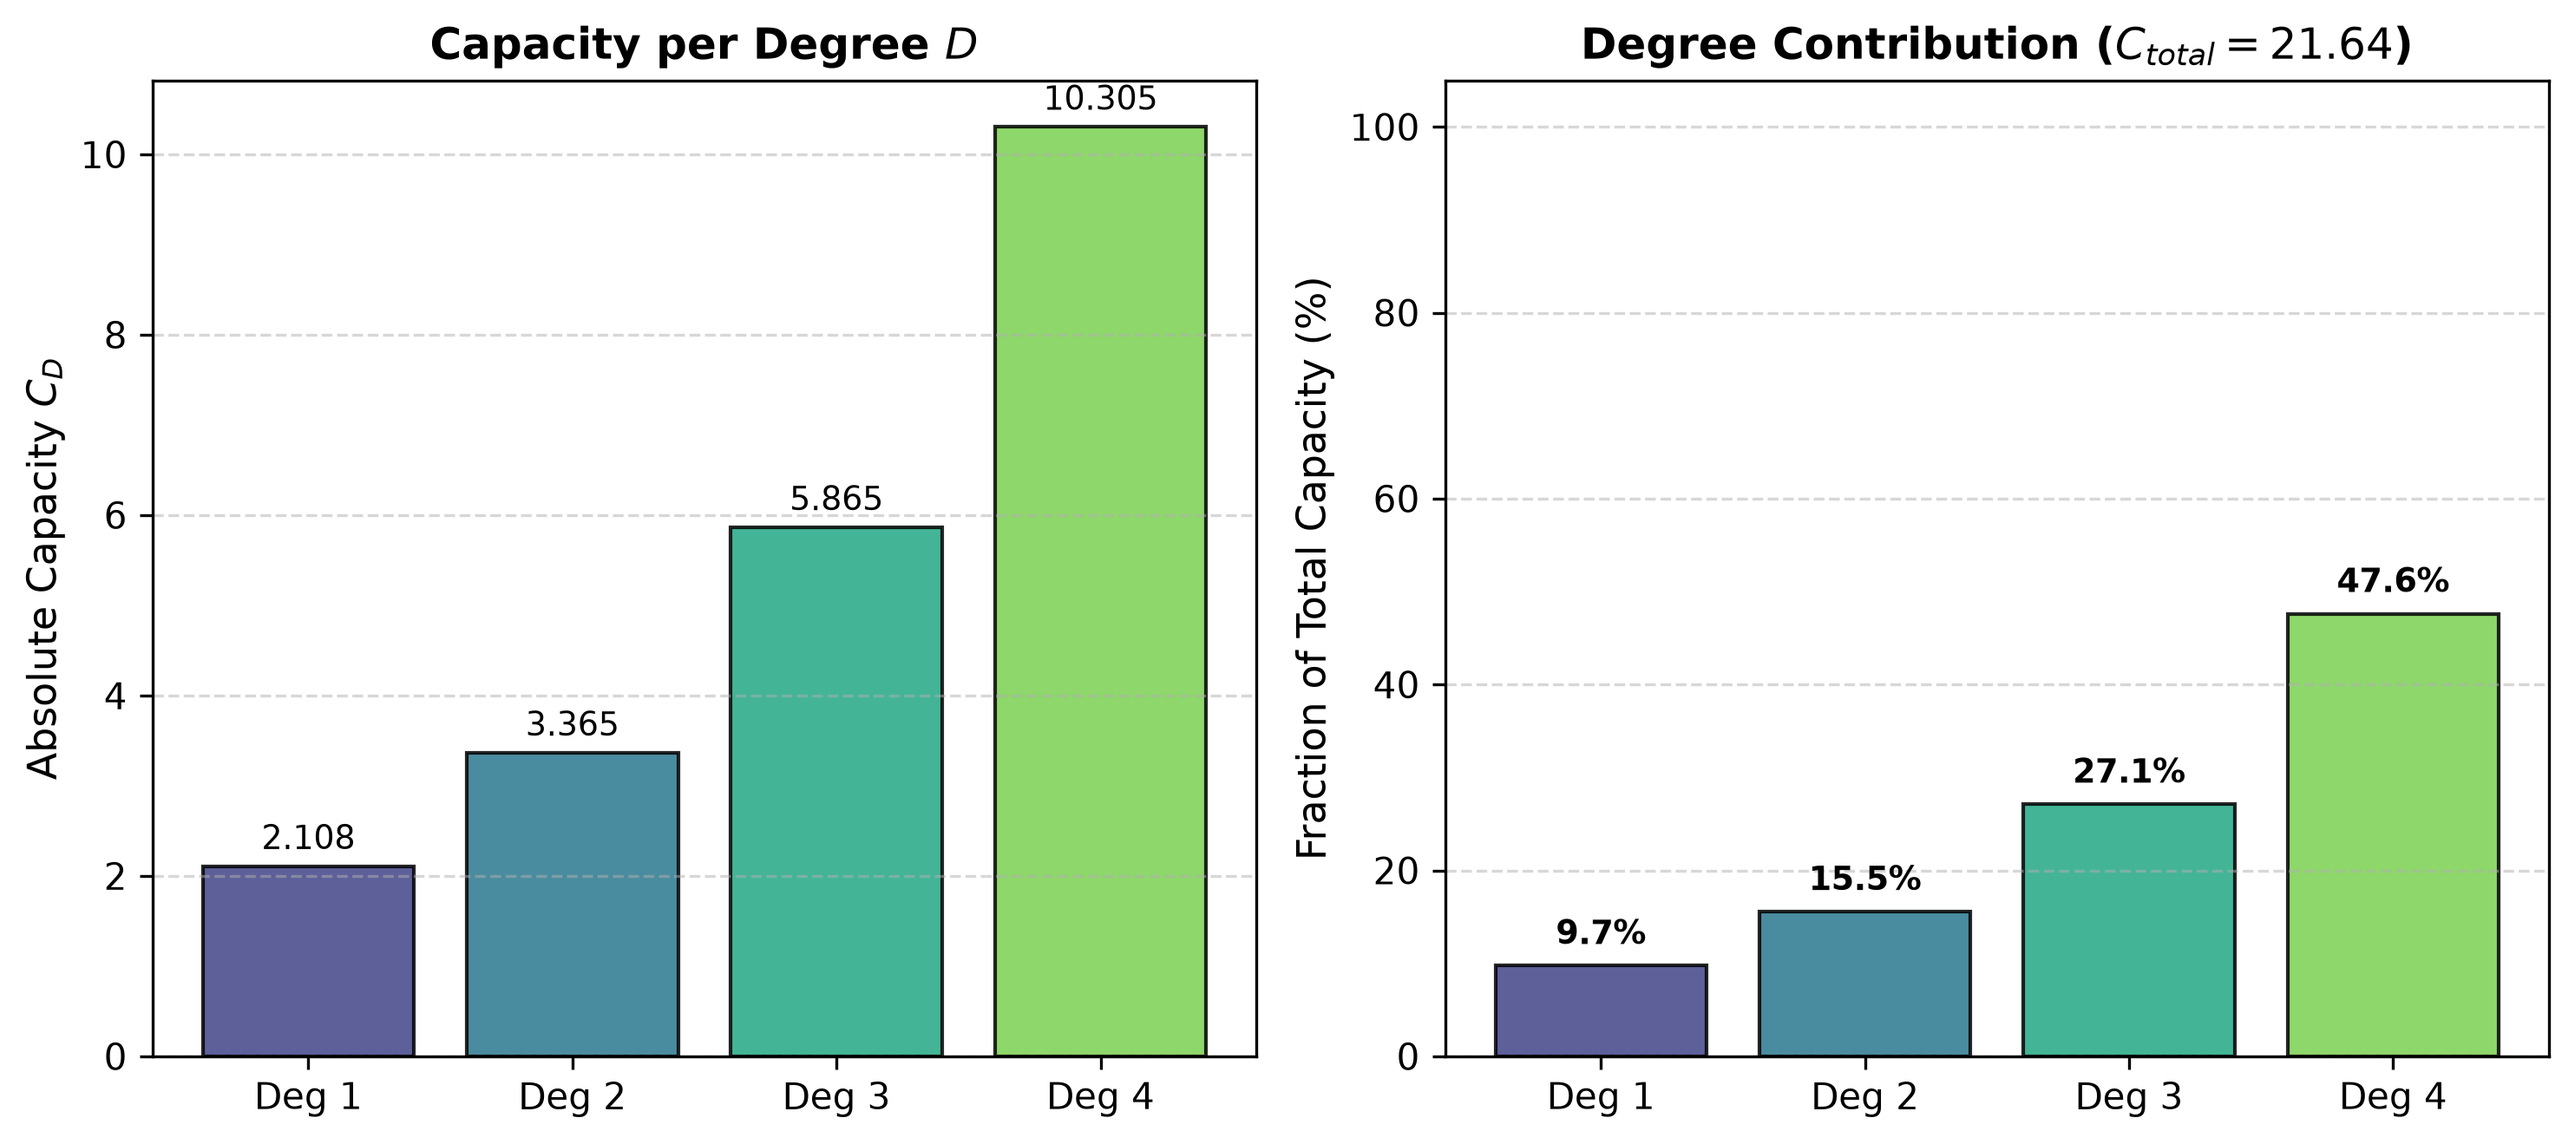
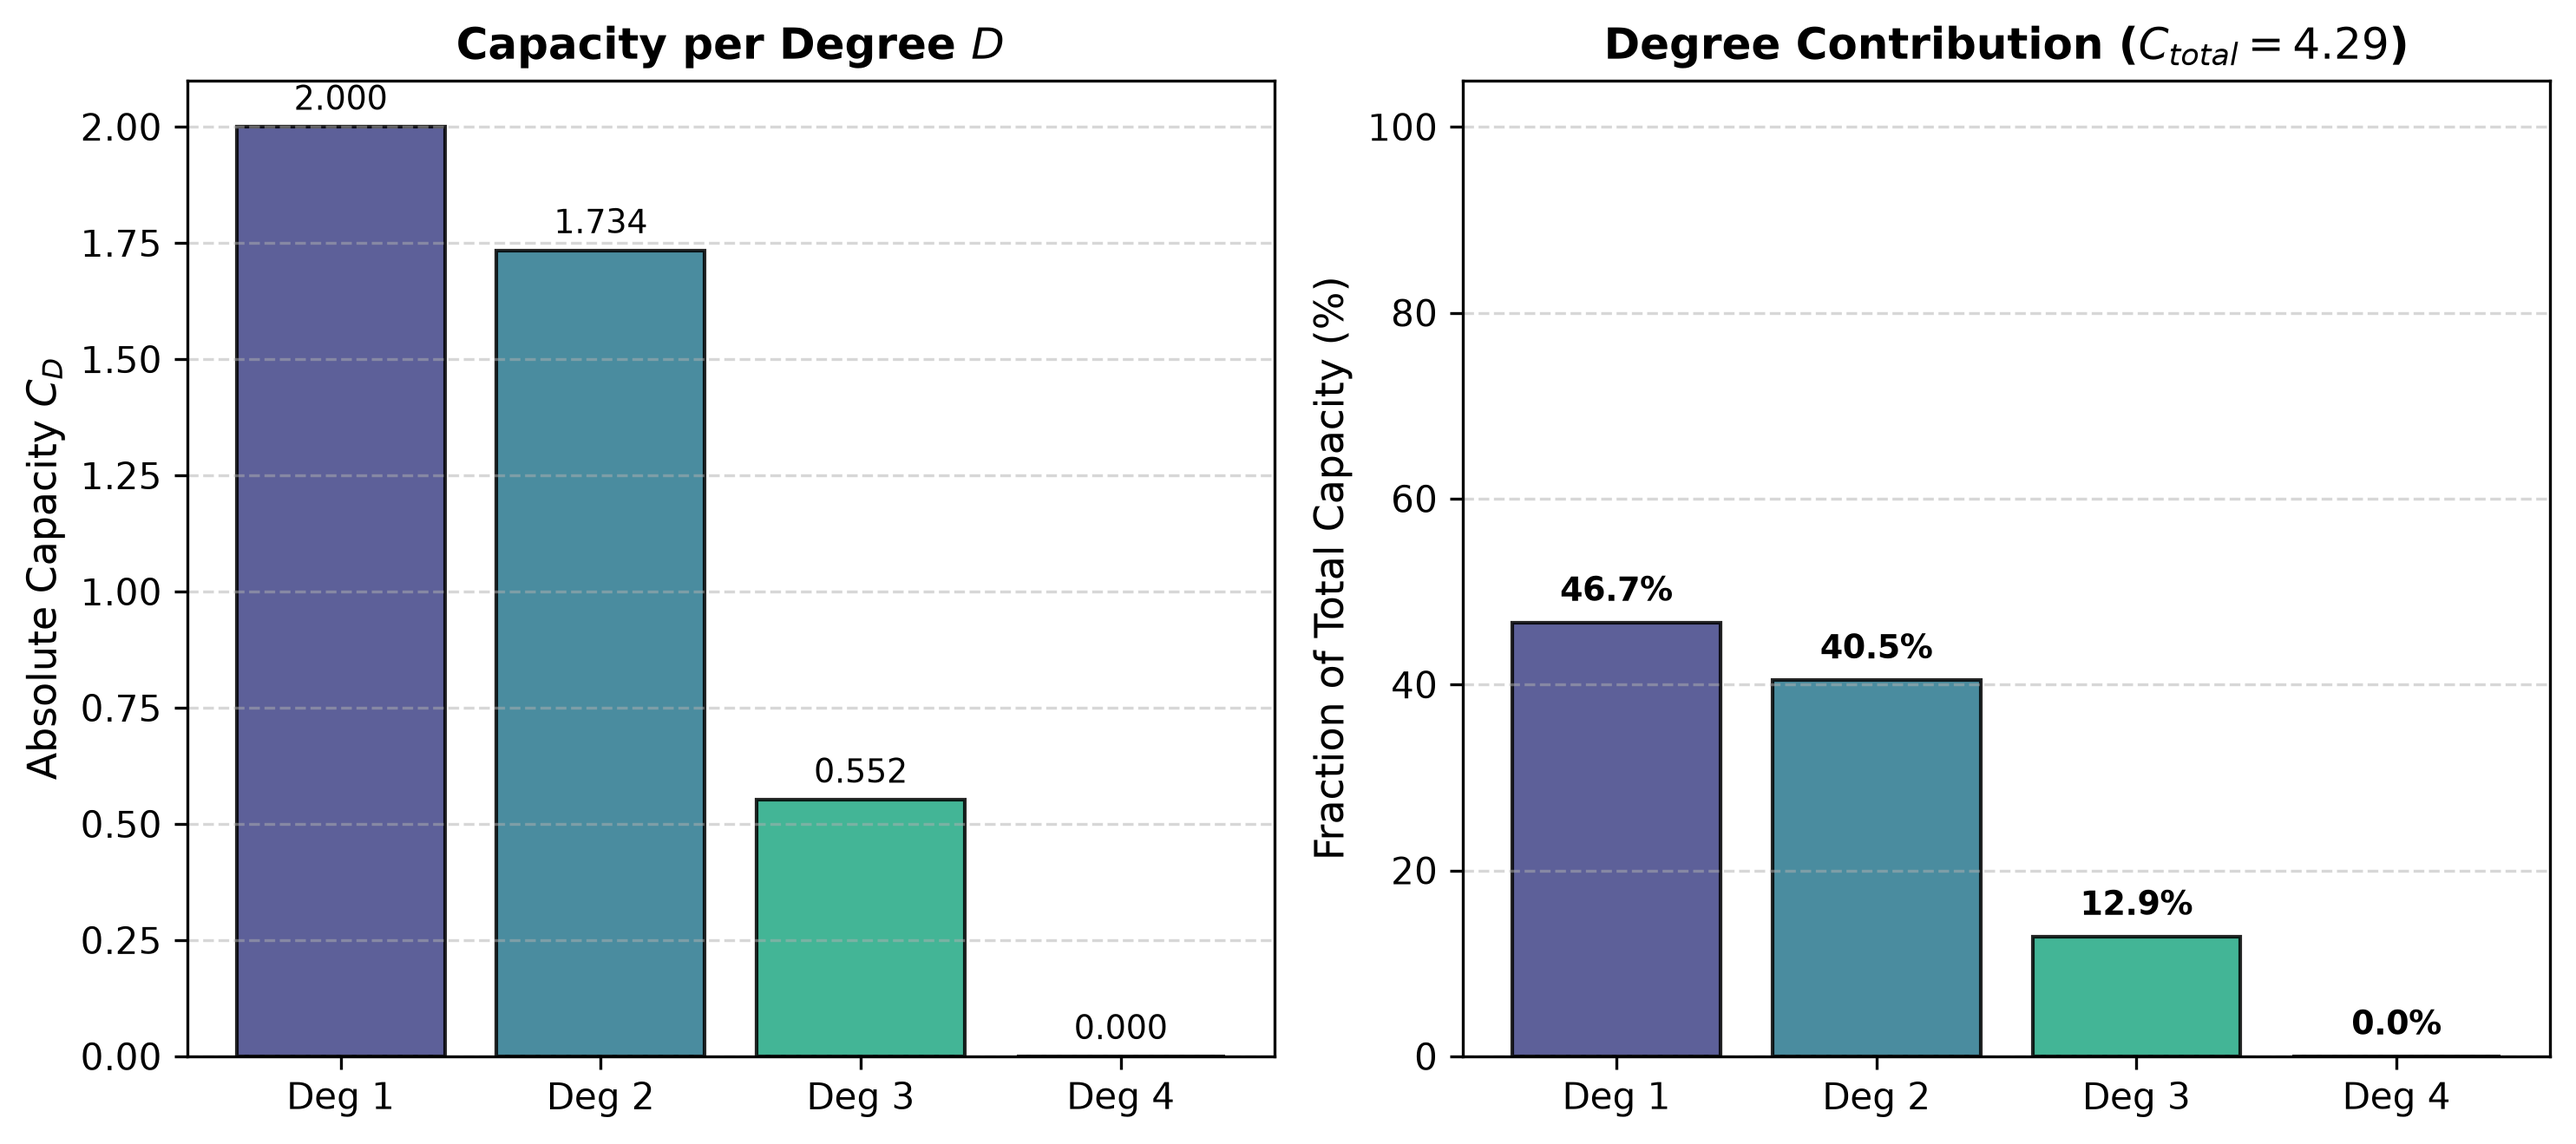
minor updates

diff --git a/classes/RC.py b/classes/RC.py
@@ -295,9 +295,73 @@ class RC(ABC):
 
         return float(np.sum(capacity_array)), capacity_array
 
+    def evaluate_IPC_joint(self, data_size: int = 5000, d_max: int = 4,
+                            tau_max: int = 10, threshold: float = 1e-3) -> tuple[float, np.ndarray]:
+        from itertools import combinations
 
+        def find_permutations(n, target, current_path=None):
+            """Ordered compositions of target into n positive integers."""
+            if current_path is None:
+                current_path = []
+            if len(current_path) == n - 1:
+                if target >= 1:
+                    yield current_path + [target]
+                return
+            for i in range(1, target - (n - 1 - len(current_path)) + 1):
+                yield from find_permutations(n, target - i, current_path + [i])
 
-        
+        rng = np.random.default_rng()
+        u = rng.uniform(-1.0, 1.0, size=data_size)
+
+        raw = self.simulate_data(u, is_train=False, save_dynamics=False)
+        states = np.asarray(raw)[:, self.washout:]  # (K, T_eff)
+        X = states.T                                # (T_eff, K)
+        T_eff, K = X.shape
+
+        # Adaptive noise floor threshold — scales with K/T_eff
+        noise_floor = K / T_eff
+        effective_threshold = max(threshold, 3.0 * noise_floor)
+
+        max_delay = min(tau_max, self.washout)
+        targets, degree_groups = [], []
+
+        for D in range(1, d_max + 1):
+            print(f"Calculating Capacity for degree {D}")
+            for n_poly in range(1, D + 1):
+                # Ordered degree assignments summing to D
+                deg_permutations = list(find_permutations(n_poly, D))
+                # DISTINCT time lags only — no same-lag products
+                delays_list = list(combinations(range(max_delay + 1), n_poly))
+
+                for perm in deg_permutations:
+                    for delay_tuple in delays_list:
+                        z = np.ones(T_eff)
+                        for d, tau in zip(perm, delay_tuple):
+                            u_lag = u[self.washout - tau : data_size - tau]
+                            z *= eval_legendre_norm(d, u_lag)
+                        targets.append(z)
+                        degree_groups.append(D)
+
+        Z = np.column_stack(targets)  # (T_eff, N)
+
+        # One joint regression — correctly bounds total IPC ≤ K
+        gamma = 1e-5
+        W_opt = np.linalg.solve(X.T @ X + gamma * np.eye(K), X.T @ Z)
+        Z_hat = X @ W_opt  # (T_eff, N)
+
+        capacity_array = np.zeros(d_max)
+        for i, D in enumerate(degree_groups):
+            var_z = np.var(targets[i])
+            if var_z == 0:
+                continue
+            mse = np.mean((Z_hat[:, i] - targets[i]) ** 2)
+            c_i = max(0.0, 1.0 - mse / var_z)
+            if c_i >= effective_threshold:
+                capacity_array[D - 1] += c_i
+
+        return float(np.sum(capacity_array)), capacity_array
+
+    
     def evaluate_IPC(self, data_size: int = 1000, d_max: int = 3, tau_max: int = 20, threshold: float = 1e-3, type: IPC_type = IPC_type.UNIFORM) -> tuple[float, dict]:
         """
         Calculates the Information Processing Capacity (IPC) of the reservoir.

diff --git a/test_scripts/test_JJ.py b/test_scripts/test_JJ.py
@@ -11,7 +11,7 @@ from classes.RC import generate_mackey_glass
 from pathlib import Path
 from collections import defaultdict
 
-def plot_ipc_by_degree(capacities_list, total_capacity=None, figsize=(10, 4.5), save_path=None):
+def plot_ipc_by_degree(capacities_list, total_capacity:float, figsize=(10, 4.5), save_path=None):
     """
     Plots IPC breakdown grouped by degree D = sum(degrees), showing absolute capacity
     and fractional contribution per degree similar to Dambre et al. (2012).
@@ -122,10 +122,10 @@ for (i,reservoir) in enumerate(reservoir_list):
 
 
     # Run IPC evaluation
-    total_C, cap_list = reservoir.evaluate_IPC_me(
-    window_max=10,
-    time_steps=1000,
-    d_max = 4,
+    total_C, cap_list = reservoir.evaluate_IPC_joint(
+        data_size=5000,
+        d_max=4,
+        tau_max=10
     )
 
     # Render the plots
